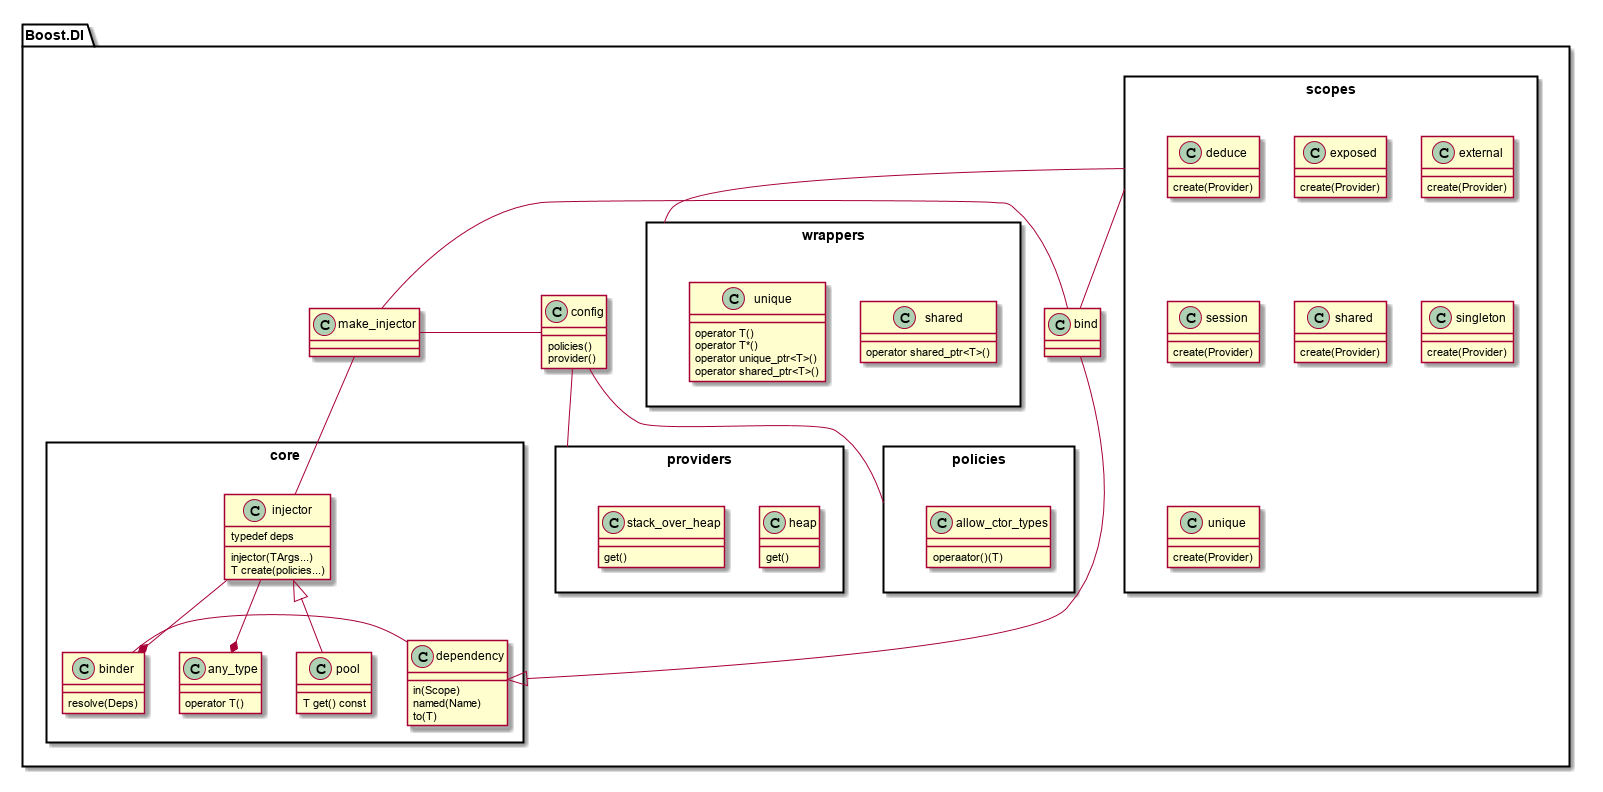
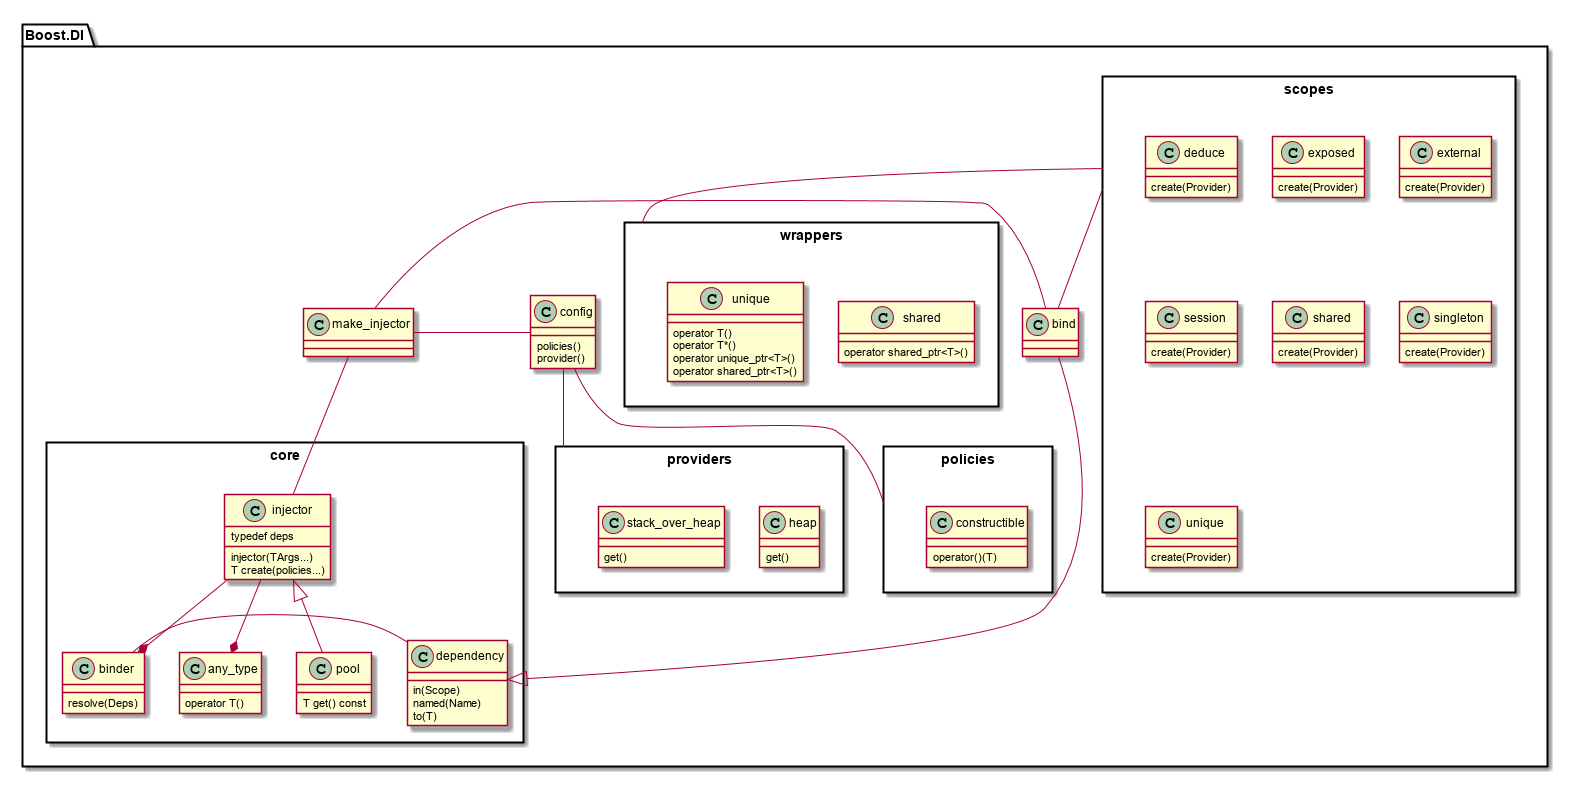
allow_ctor_types -> constructible

diff --git a/README.md b/README.md
@@ -707,7 +707,7 @@ public:                                 |     di::bind<i1, impl1>
 `constructible` policy                  | Test
 ----------------------------------------|-----------------------------------------
 #include <boost/di/                     | // global policy
-    policies/allow_ctor_types.hpp>      | #define BOOST_DI_CFG all_must_be_bound_unless_int
+    policies/constructible.hpp>         | #define BOOST_DI_CFG all_must_be_bound_unless_int
                                         | assert(0 == di::make_injector().create<int>());
 class all_must_be_bound_unless_int      |
     : public di::config {               | // di::make_injector().create<double>(); // compile error
@@ -718,7 +718,7 @@ public:                                 | assert(42.0 == make_injector(
         di::policies::operators;        |
                                         |
     return di::make_policies(           |
-      allow_ctor_types(                 |
+      constructible(                    |
         is_same<_, int>{} ||            |
         is_bound<_>{})                  |
     );                                  |
@@ -954,7 +954,7 @@ class all_bound : public di::config {   | error: static_assert failed
 public:                                 | "Type T is not allowed"
   auto policies() const noexcept {      |
     return di::make_policies(           |
-      allow_ctor_types(is_bound<_>{})   |
+      constructible(is_bound<_>{})      |
     );                                  |
   }                                     |
 };                                      |
